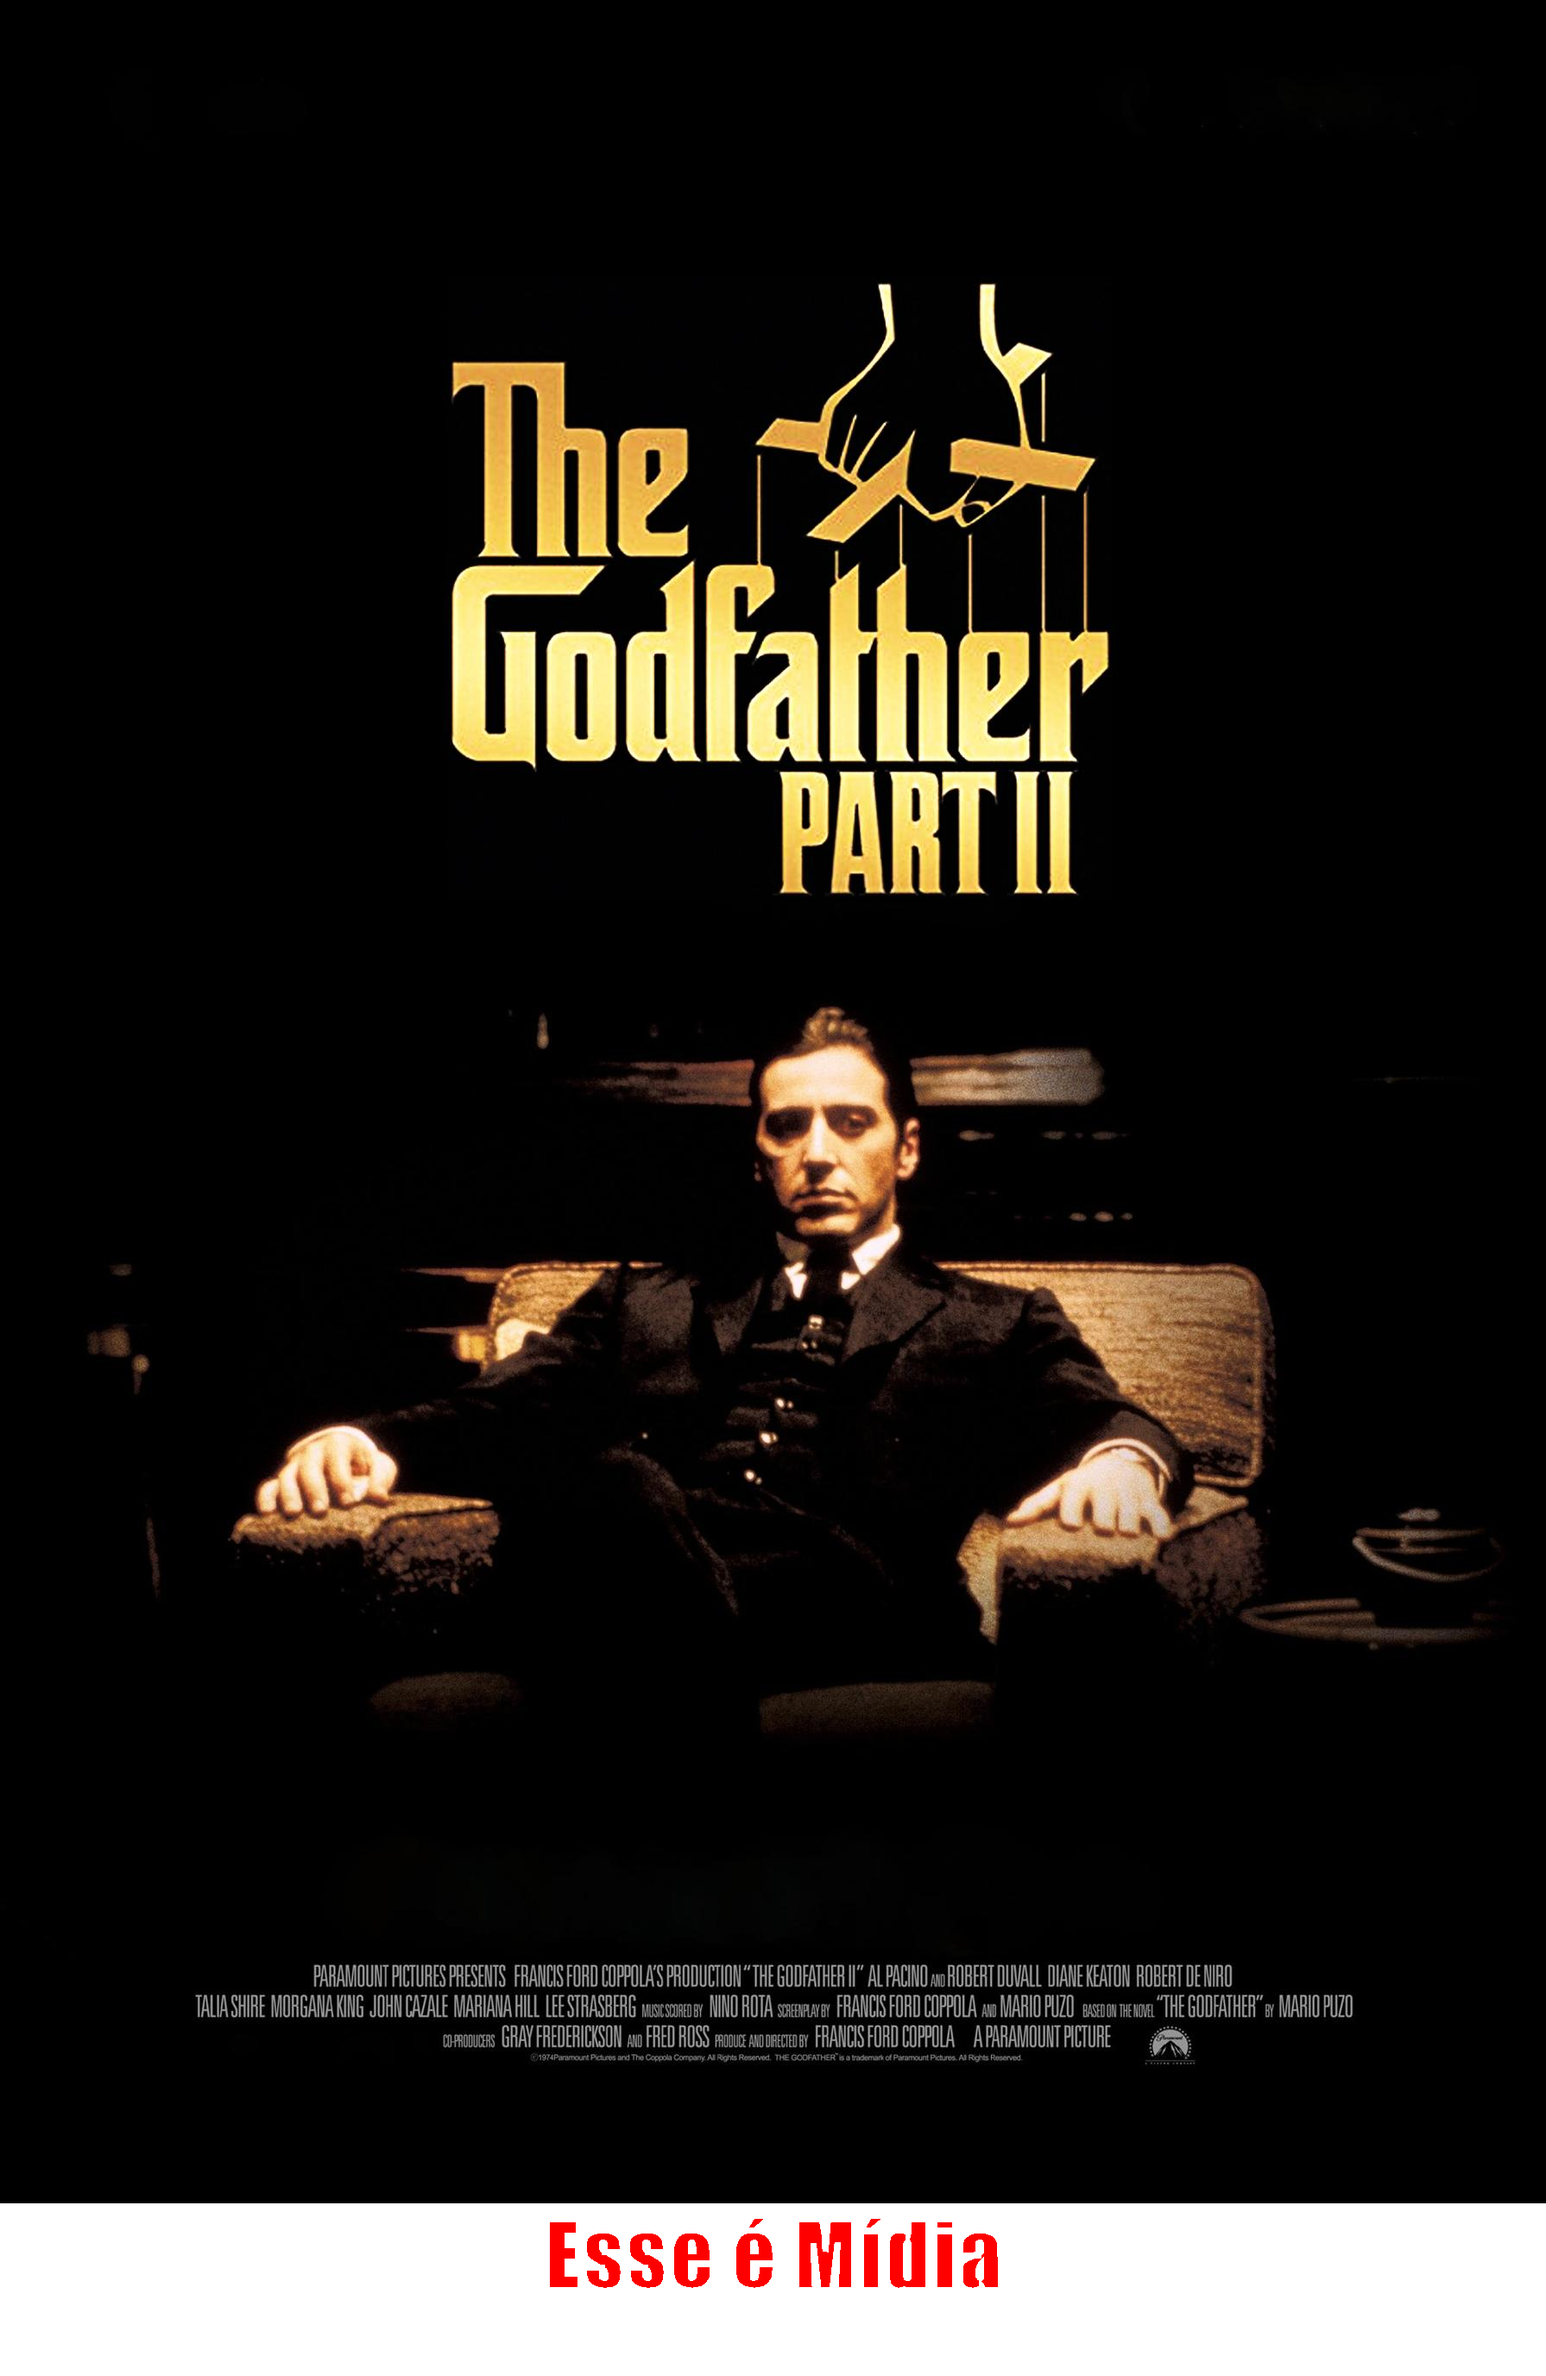
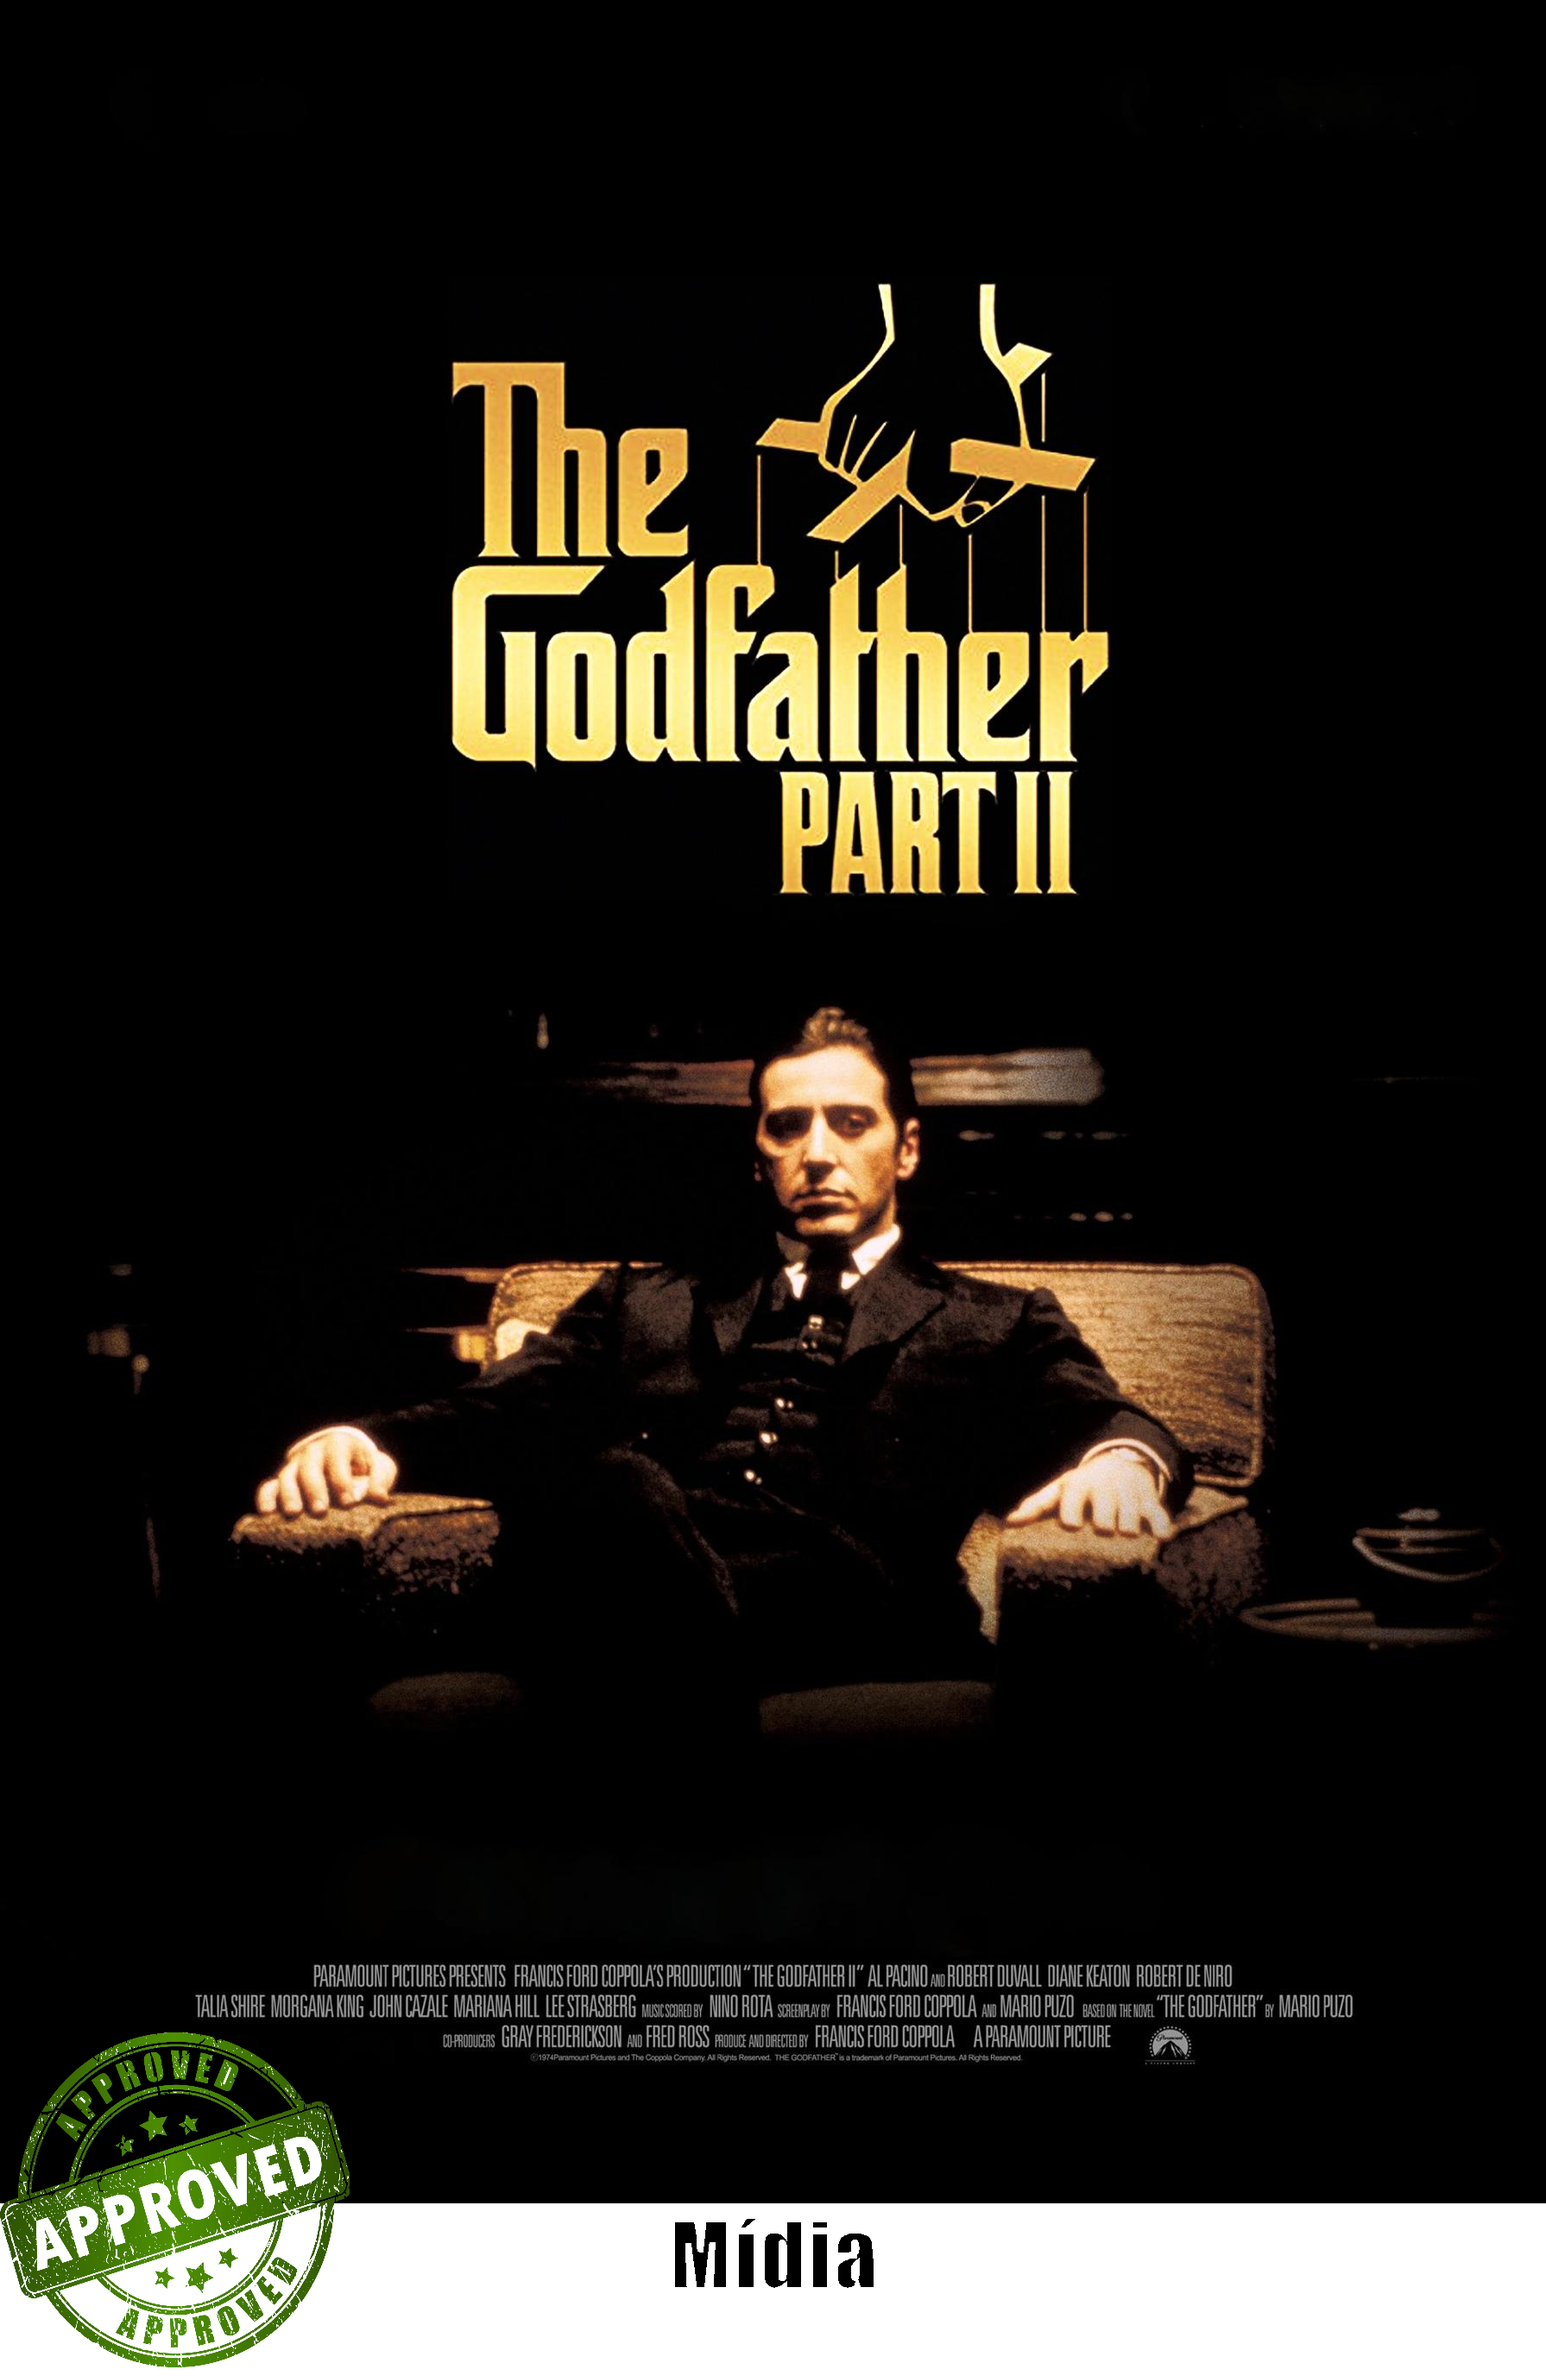
changes fixed

Changed region(s): [[0.0, 0.8438, 0.2457, 1.0], [0.3378, 0.9375, 0.6449, 0.9688]]

diff --git a/src/App.java b/src/App.java
@@ -46,11 +46,11 @@ public class App {
             String textoFigurinha;
             InputStream ImagemSelo;
             if (catalogacao >= 8.9) {
-                textoFigurinha = "Esse é Mídia";
-                ImagemSelo = new FileInputStream(new File("alura-Stickers/selos/aprovado.png"));
+                textoFigurinha = "Mídia";
+                ImagemSelo = new FileInputStream(new File("selos/aprovado.png"));
             } else {
-                textoFigurinha = "< CSA x Ipatinga";
-                ImagemSelo = new FileInputStream(new File("alura-Stickers/selos/reprovado.png"));
+                textoFigurinha = "Fraco";
+                ImagemSelo = new FileInputStream(new File("selos/reprovado.png"));
             }
 
             InputStream inputStream = new URL(UrlImagemMaior).openStream();

diff --git a/src/GeradoraDeFigurinhas.java b/src/GeradoraDeFigurinhas.java
@@ -46,7 +46,7 @@ public class GeradoraDeFigurinhas {
         // configurar a fonte
 
         var fonte = new Font("Impact", Font.BOLD, 100);
-        graphics.setColor(Color.RED);
+        graphics.setColor(Color.BLACK);
         graphics.setFont(fonte);
 
         // escrever uma frase na nova imagem 
